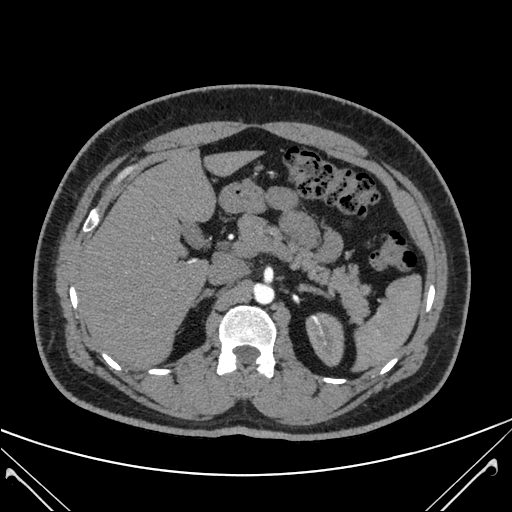
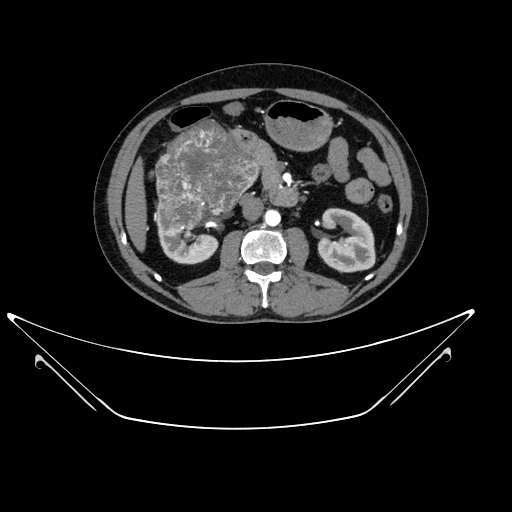
model added

diff --git a/src/cnnClassifier/pipeline/prediction.py b/src/cnnClassifier/pipeline/prediction.py
@@ -11,7 +11,7 @@ class PredictionPipeline:
     
     def predict(self):
         # load model
-        model = load_model(os.path.join("artifacts/training/model.h5"))
+        model = load_model(os.path.join("model","model.h5"))
 
         imagename = self.filename
         test_image = image.load_img(imagename, target_size = (224,224))